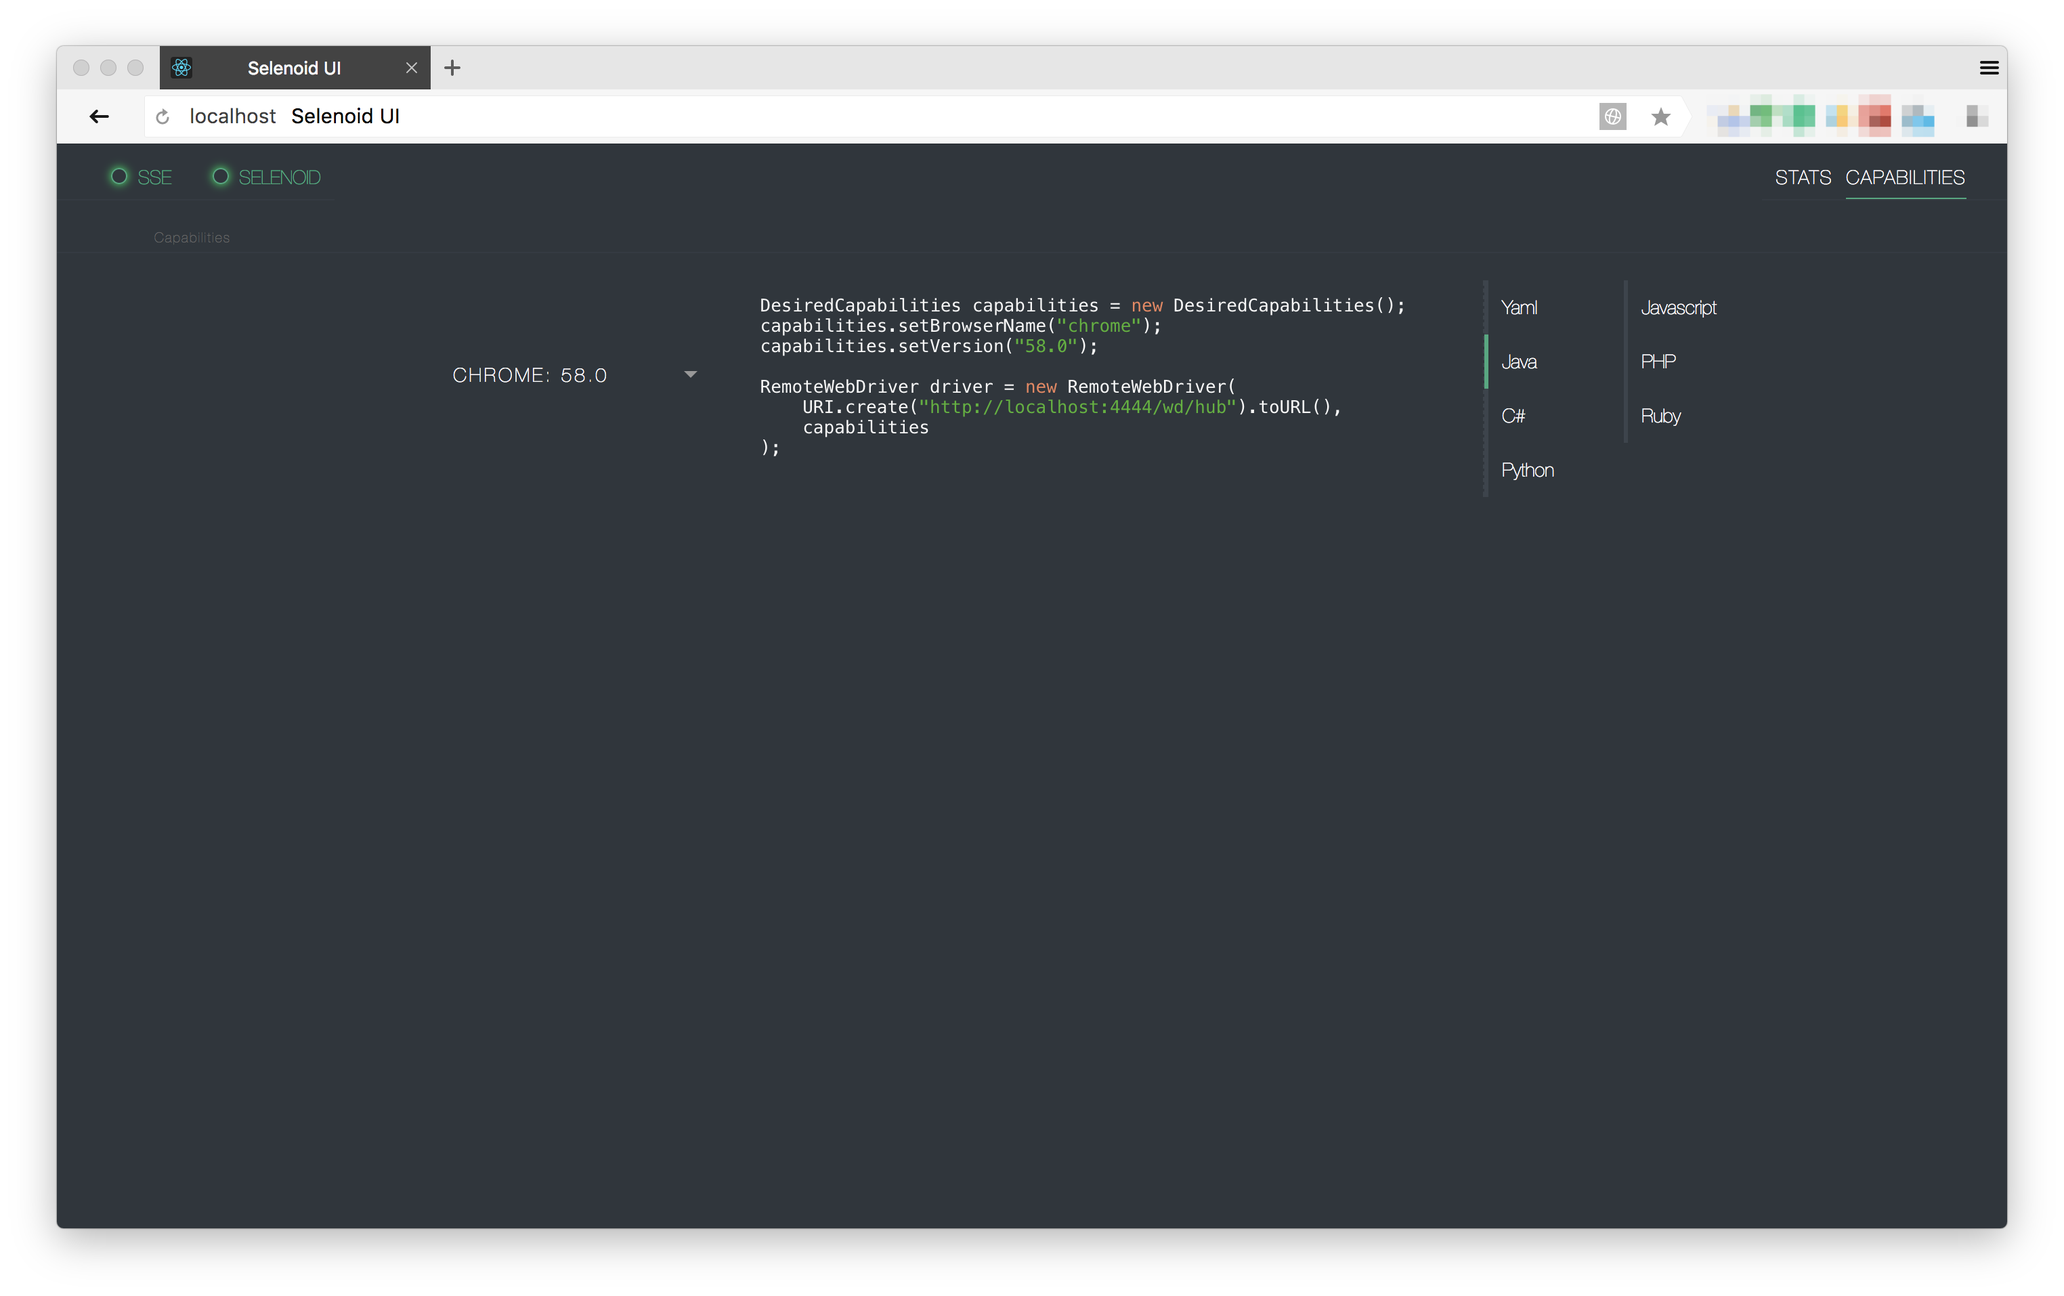
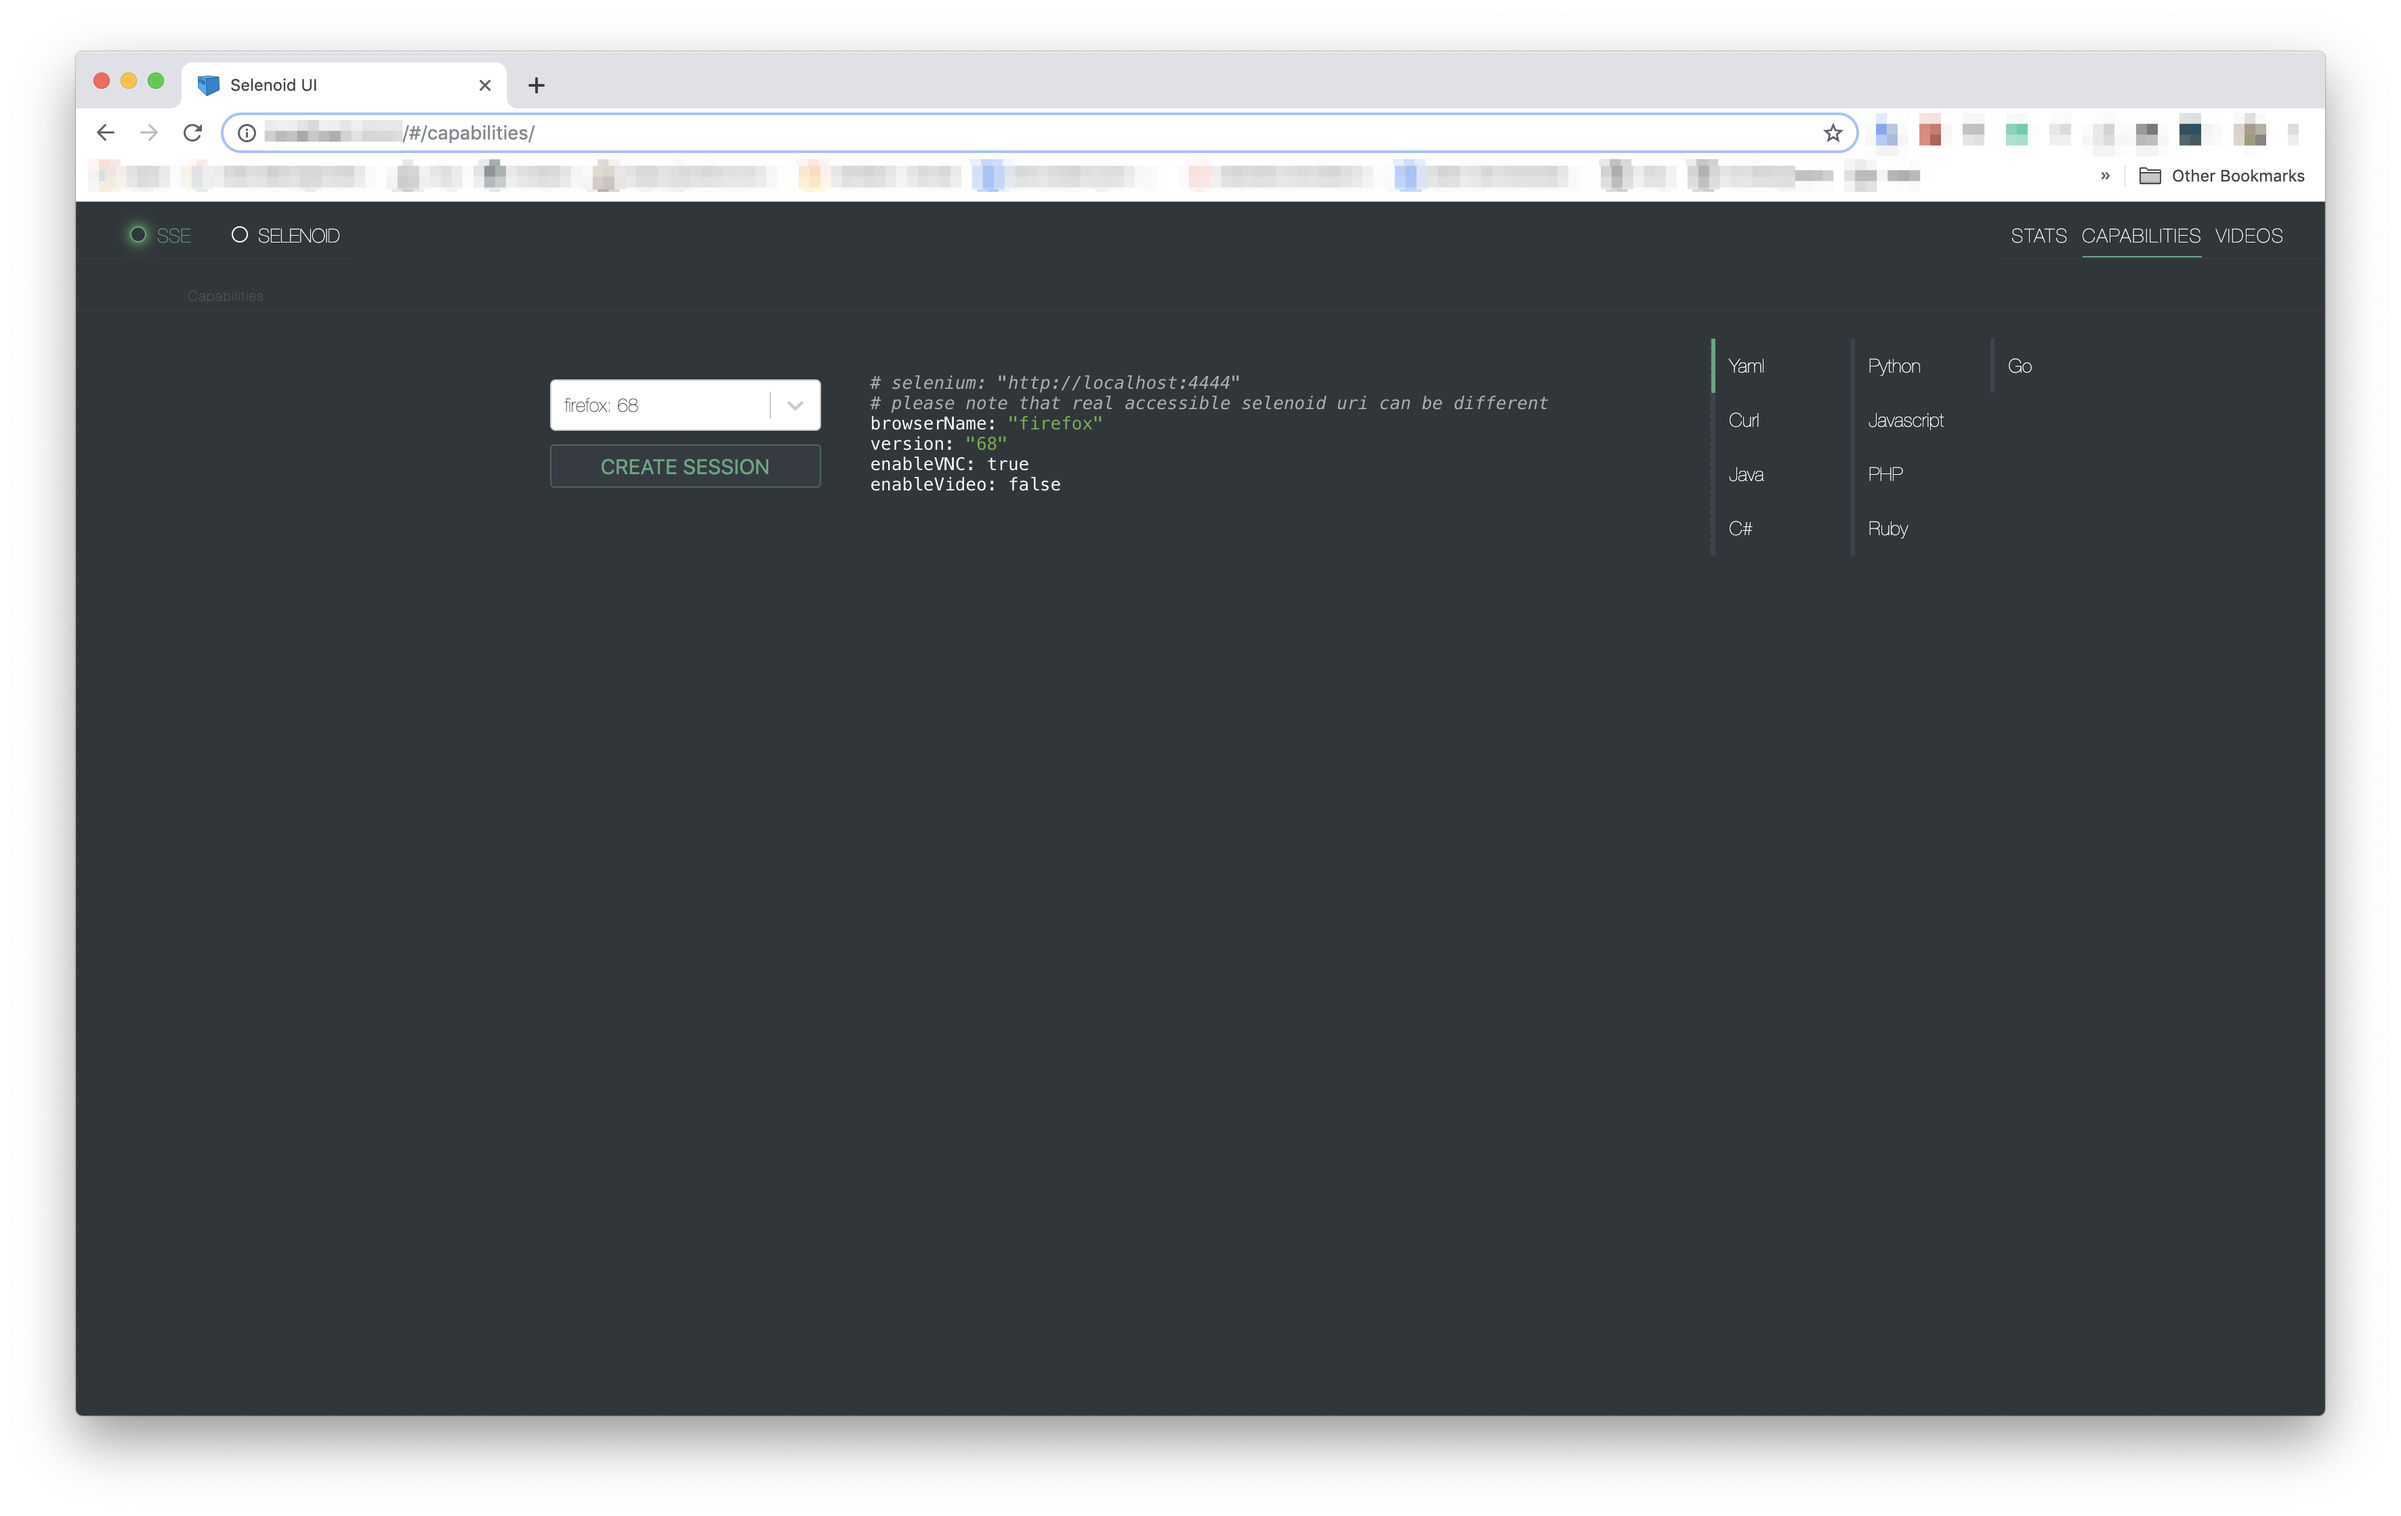
Publishing to gh-pages

diff --git a/latest/index.html b/latest/index.html
@@ -445,7 +445,7 @@ body.book #toc,body.book #preamble,body.book h1.sect0,body.book .sect1>h2{page-b
 <div class="details">
 <span id="author" class="author">Kirill Merkushev, Ivan Krutov, Alexander Andryashin and the Aerokube community</span><br>
 <span id="revnumber">version latest,</span>
-<span id="revdate">2019-07-30</span>
+<span id="revdate">2019-07-31</span>
 </div>
 <div id="toc" class="toc2">
 <div id="toctitle">Table of Contents</div>
@@ -460,7 +460,11 @@ body.book #toc,body.book #preamble,body.book h1.sect0,body.book .sect1>h2{page-b
 <li><a href="#_features_list">2. Features list:</a>
 <ul class="sectlevel2">
 <li><a href="#_stats_and_sessions">2.1. Stats and sessions</a></li>
-<li><a href="#_capabilities">2.2. Capabilities</a></li>
+<li><a href="#_capabilities">2.2. Capabilities</a>
+<ul class="sectlevel3">
+<li><a href="#_manual_run">2.2.1. Manual run</a></li>
+</ul>
+</li>
 <li><a href="#_logs_vnc">2.3. Logs &amp; VNC</a>
 <ul class="sectlevel3">
 <li><a href="#_logs">2.3.1. Logs</a></li>
@@ -696,7 +700,8 @@ But it&#8217;s true only inside of UI container.
 <div class="paragraph">
 <p>Shows current quota usage, pending browsers and queue.
 Gets updates via SSE, so no need to refresh browser to see what happens.
-It will reconnect automatically on any temp failures.</p>
+It will reconnect automatically on any temp failures.
+Each session on this screen can be closed.</p>
 </div>
 <div class="paragraph">
 <div class="title">Stats and sessions</div>
@@ -712,6 +717,25 @@ an example of setup with right capabilities. Examples available for several lang
 <div class="paragraph">
 <div class="title">Capabilities</div>
 <p><span class="image"><img src="img/capabilities.png" alt="ui"></span></p>
+</div>
+<div class="sect3">
+<h4 id="_manual_run"><a class="anchor" href="#_manual_run"></a>2.2.1. Manual run</h4>
+<div class="paragraph">
+<p>With selection of the browser it could be launched manually right in the interface.</p>
+</div>
+<div class="admonitionblock note">
+<table>
+<tr>
+<td class="icon">
+<i class="fa icon-note" title="Note"></i>
+</td>
+<td class="content">
+Protocol and the browser assumes that you will pass numerical value for the version.
+This way "latest" version won&#8217;t work. Please setup your selenoid accordingly.
+</td>
+</tr>
+</table>
+</div>
 </div>
 </div>
 <div class="sect2">
@@ -841,7 +865,7 @@ $ docker build -t selenoid-ui:latest .</code></pre>
 <div id="footer">
 <div id="footer-text">
 Version latest<br>
-Last updated 2019-07-30 22:52:37 UTC
+Last updated 2019-07-31 21:04:26 UTC
 </div>
 </div>
 <style>
